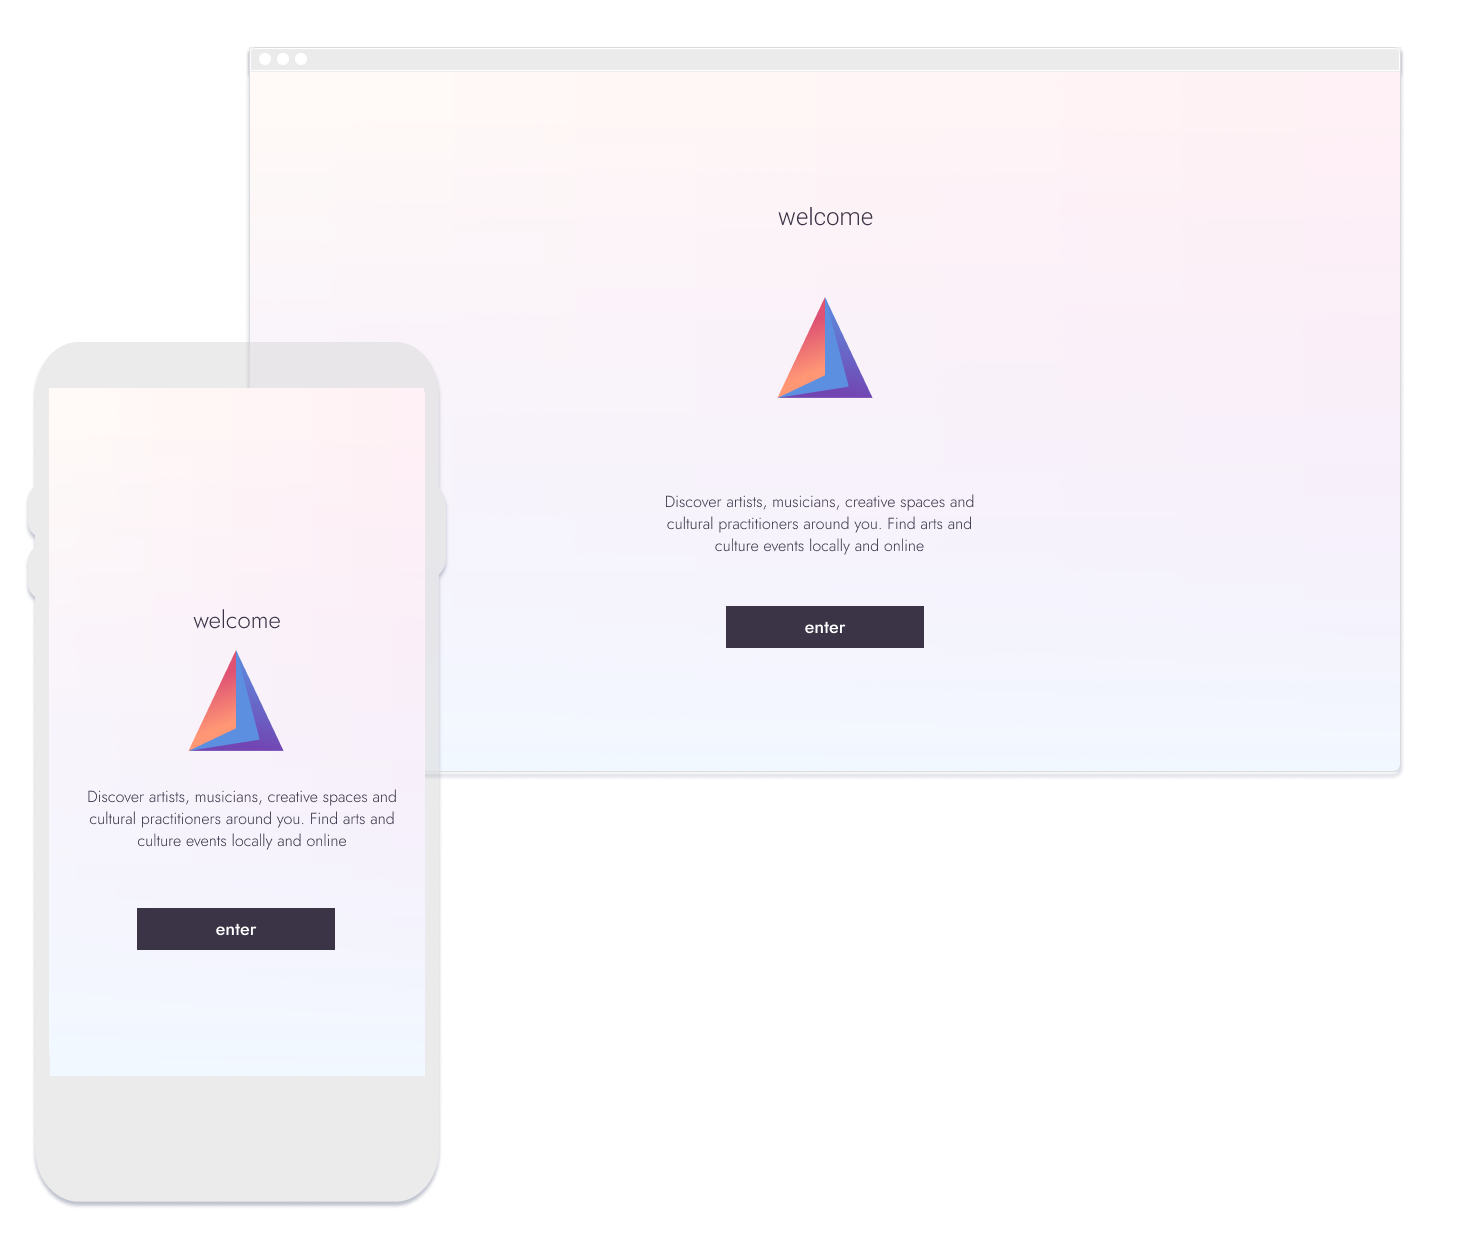
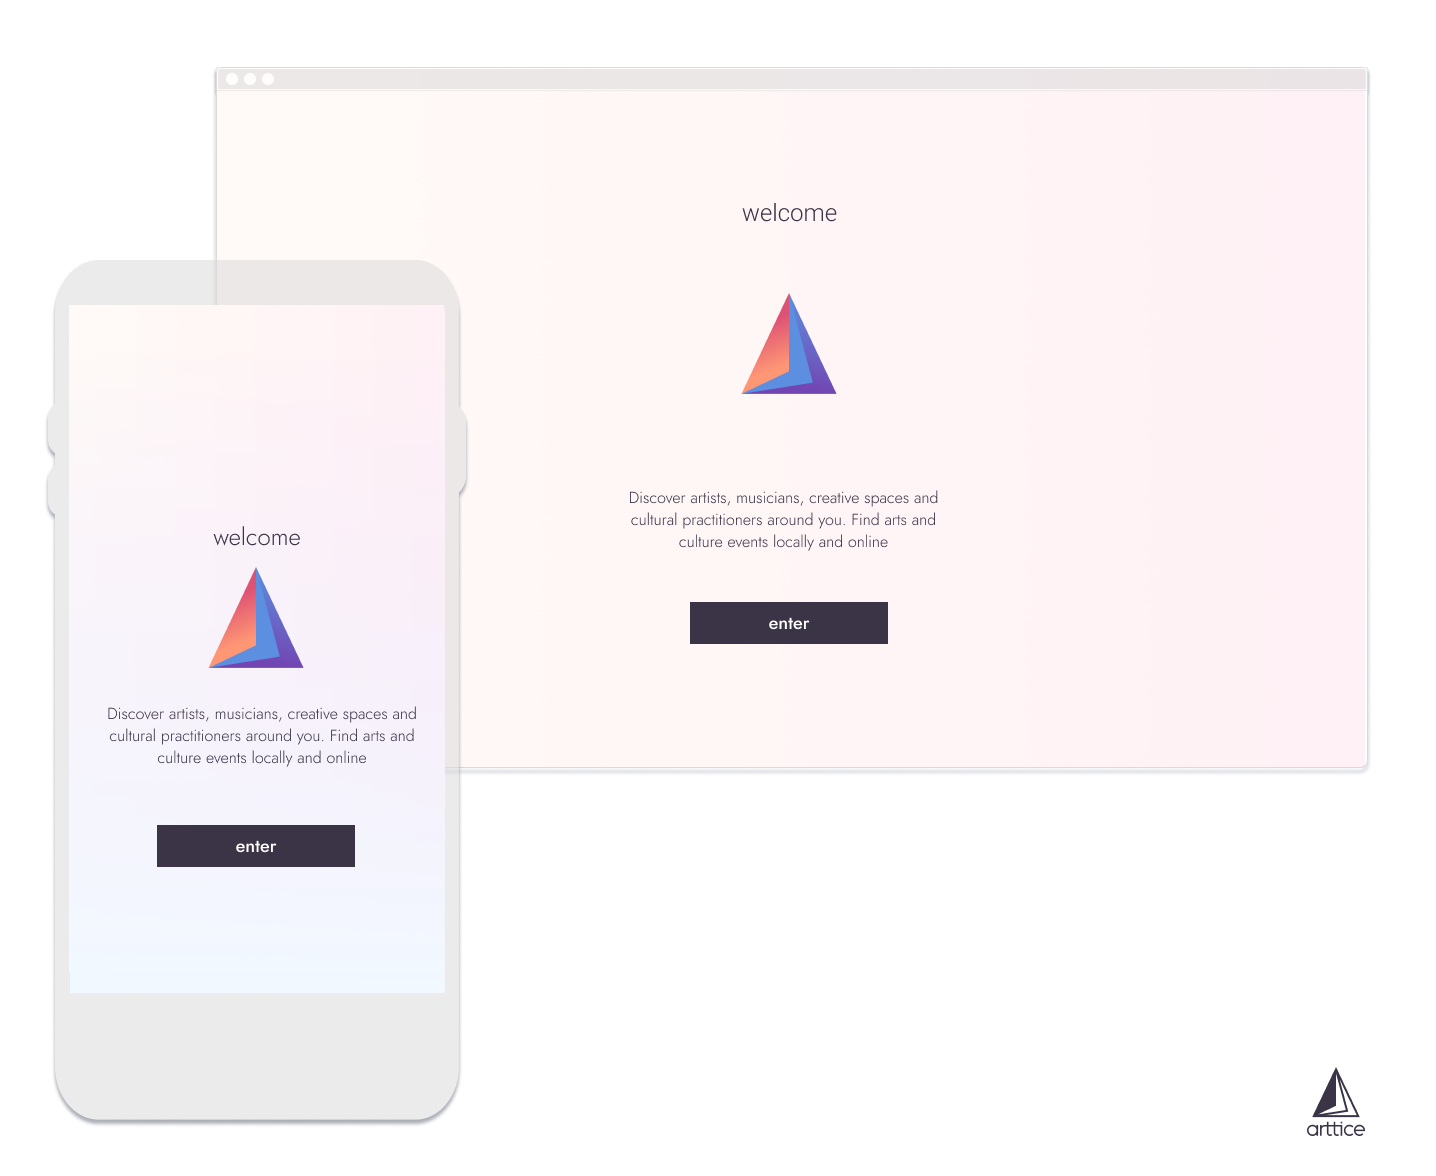
update

diff --git a/arttice.html b/arttice.html
@@ -184,7 +184,7 @@ font-style: normal;">   </br>
                 The need for (digital) artist-run networks</h1>
 
                 </r-cell>
-        <r-cell span=1-3 span-s=row 
+        <r-cell span=2-3 span-s=row 
         data-aos="fade-zoom-in"
               data-aos-easing="ease-in-back"
               data-aos-delay="500"
@@ -255,17 +255,26 @@ font-style: normal;">   </br>
 
              
             </h1>
-            <h2>Profiles, pages, and events</h2>
+          
               
  </r-cell>
 
- <r-cell span=2-7 span-s=row 
+ <r-cell span=3-7 span-s=row 
     data-aos="fade-zoom-in"
         data-aos-easing="ease-in-back"
         data-aos-delay="500"
         data-aos-offset="0">
+        
 </br></br></br>
         <img src="img/arttice/profile-page-dependancy.png" width="100%" style="align-items: center;" >
+ </r-cell>
+        <r-cell span=2-8 span-s=row 
+    data-aos="fade-zoom-in"
+        data-aos-easing="ease-in-back"
+        data-aos-delay="500"
+        data-aos-offset="0">
+        
+        <img src="img/arttice/information-architecture.png" width="100%" style="align-items: center;" >
 
           </r-cell>
 
@@ -274,6 +283,7 @@ font-style: normal;">   </br>
        data-aos-easing="ease-in-back"
        data-aos-delay="500"
        data-aos-offset="0">
+       <h2>Profiles, pages, and events</h2>
  <h3 style="font-weight: 400; line-height: 1.3;">
 To enable a seemless transition from platforms such as Facebook, Arttice is built around an account that can in turn manage multiple pages and publish multiple events on each of them.
  </br>
@@ -284,21 +294,31 @@ To enable a seemless transition from platforms such as Facebook, Arttice is buil
 
         </r-cell>
 
-  
-   
 
-  
 
-        
+
 
           
    
     
+  <r-cell span=1-8 span-s=row 
+  data-aos="fade-zoom-in"
+        data-aos-easing="ease-in-back"
+        data-aos-delay="500"
+        data-aos-offset="0">
+   
+    <h1 class="large" >
+    </br>  </br>  </br>  
+Interface design
+
+ 
+</h1>
+  </r-cell>
 
 
   
 
-                      <r-cell span=1-4 span-s=row > 
+                      <r-cell span=2-3 span-s=row > 
                      
                         </br> </br> 
                         
@@ -307,9 +327,14 @@ To enable a seemless transition from platforms such as Facebook, Arttice is buil
                      <h3> <br>
                     My page UI
                     <br><br></h3>
+                    <h4 style="font-weight: 400; line-height: 1.3;">
+  
+                    The my page UI is meant to allow artists and cultural producers to easily manage multiple pages and events at the same time.
+                      
+                  </h4>
                         </r-cell>
 
-                         <r-cell span=1-8 span-s=row 
+                         <r-cell span=2-8 span-s=row 
                          data-aos="fade-zoom-in"
                              data-aos-easing="ease-in-back"
                              data-aos-delay="100"
@@ -319,28 +344,22 @@ To enable a seemless transition from platforms such as Facebook, Arttice is buil
                  
                            </r-cell>
 
-    <r-cell span=1-8 span-s=row
+    <r-cell span=2-3  span-s=row
     data-aos="fade-zoom-in"
         data-aos-easing="ease-in-back"
         data-aos-delay="500"
         data-aos-offset="0" >
         <h2>
        A map-centered search interface
-          <br></h2></r-cell>
-
-          <r-cell span=1-3 span-s=row
-          data-aos="fade-zoom-in"
-              data-aos-easing="ease-in-back"
-              data-aos-delay="500"
-              data-aos-offset="0" >
-              <h1 class="large" >
-        <h4 style="font-weight: 400; line-height: 1.3;">
-      Both site visitors and registered users can discover pages or events by either searching by keyword, filtering by different categories, or through navigating the map UI.
-          <br> <br></h4>
+          <br></h2>
+          <h4 style="font-weight: 400; line-height: 1.3;">
+            Both site visitors and registered users can discover pages or events by either searching by keyword, filtering by different categories, or through navigating the map UI.
+                <br> <br></h4>
         </r-cell>
 
+    
 
-        <r-cell span=1-9 span-s=row 
+        <r-cell span=2-9 span-s=row 
         data-aos="fade-zoom-in"
             data-aos-easing="ease-in-back"
             data-aos-delay="100"
@@ -354,7 +373,7 @@ To enable a seemless transition from platforms such as Facebook, Arttice is buil
     
 
     
-          <r-cell span=1-2 span-s=row
+          <r-cell span=2-3 span-s=row
           data-aos="fade-zoom-in"
               data-aos-easing="ease-in-back"
               data-aos-delay="500"
@@ -366,7 +385,6 @@ To enable a seemless transition from platforms such as Facebook, Arttice is buil
           
                 <h4 style="font-weight: 400; line-height: 1.3;">
                  Registration is invite-only. Both moderators and existing users can generate invites.
-                </br></br>
                  Once a person registers, they are encouraged to create a page from their profile
 
                  
@@ -374,7 +392,7 @@ To enable a seemless transition from platforms such as Facebook, Arttice is buil
               </r-cell>
 
     
-          <r-cell span=1-8 span-s=row 
+          <r-cell span=2-8 span-s=row 
           data-aos="fade-zoom-in"
               data-aos-easing="ease-in-back"
               data-aos-delay="100"
@@ -385,14 +403,22 @@ To enable a seemless transition from platforms such as Facebook, Arttice is buil
             </r-cell>
       
 
+            <r-cell span=2-3 span-s=row 
+            data-aos="fade-zoom-in"
+                data-aos-easing="ease-in-back"
+                data-aos-delay="100"
+                data-aos-offset="0">
+                <h4 style="font-weight: 400;">The registration 
+                  flow on larger devices is shorter, as each screen includes two steps instead of one.
+                </br></br>
+                </h4>
+                </r-cell>
+
             <r-cell span=1-8 span-s=row 
             data-aos="fade-zoom-in"
                 data-aos-easing="ease-in-back"
                 data-aos-delay="100"
                 data-aos-offset="0">
-                <h3 >Desktop version
-                </br></br>
-                </h3>
                 <img src="img/arttice/create-a-page-desktop.png">
               </br></br></br>
   

diff --git a/lips.html b/lips.html
@@ -203,6 +203,14 @@ data-aos="fade-zoom-in"
               data-aos-offset="0">
               <h1 class="large" > </br></br>
                 What problem is Lips solving?</h1>
+                
+          </r-cell>
+
+          <r-cell span=2-3 span-s=row 
+          data-aos="fade-zoom-in"
+                data-aos-easing="ease-in-back"
+                data-aos-delay="500"
+                data-aos-offset="0">
               <h3  style="font-weight: 400; line-height: 1.4;" class="text-float-bottom">
               </br>
             </br>
@@ -217,7 +225,7 @@ data-aos="fade-zoom-in"
 
           </r-cell>
 
-          <r-cell span=4-8 span-s=row 
+          <r-cell span=4-7 span-s=row 
           data-aos="fade-zoom-in"
                 data-aos-easing="ease-in-back"
                 data-aos-delay="500"
@@ -427,48 +435,6 @@ Designed and led 3 remote co-design sessions with key stakeholder groups: artist
 
         
 
-          <r-cell span=1-2 span-s=row 
-          data-aos="fade-zoom-in"
-              data-aos-easing="ease-in-back"
-              data-aos-delay="500"
-        
-              data-aos-offset="0">
-              
-              <h2 >
-                </br></br></br></br>
-                         Just browse
-                         <hr>
-                          </br></h2>
-<img src="img/lips/non-registered.jpg">
-              </r-cell>
-              <r-cell span=3-5 span-s=row 
-              data-aos="fade-zoom-in"
-                  data-aos-easing="ease-in-back"
-                  data-aos-delay="500"
-                  data-aos-offset="0">
-                  <h2 >
-                   </br></br></br></br>
-                            Registered
-                            <hr>
-                              </br></h2>
-   
-    <img src="img/lips/non-approved.jpg">
-                  </r-cell>
-
-                  <r-cell span=6-8 span-s=row 
-                  data-aos="fade-zoom-in"
-                      data-aos-easing="ease-in-back"
-                      data-aos-delay="500"
-                      data-aos-offset="0">
-                      <h2 >
-                       </br></br></br></br>
-                                Approved
-                                <hr>
-                                  </br></h2>
-      
-        <img src="img/lips/approved.jpg">
-                      </r-cell>
-
   
 
                       <r-cell span=7 span-s=row > 
@@ -491,14 +457,36 @@ Designed and led 3 remote co-design sessions with key stakeholder groups: artist
           <br> <br></h4>
         </r-cell>
 
-
-        <r-cell span=3-8 span-s=row 
+        <r-cell span=3-7 span-s=row 
         data-aos="fade-zoom-in"
             data-aos-easing="ease-in-back"
             data-aos-delay="100"
             data-aos-offset="0">
-            <img src="img/lips/just-browse.png">
-      </br></br></br>
+            
+            <img src="img/lips/non-registered.jpg">
+         
+          </br></br></br>
+
+          </r-cell>
+
+          <r-cell span=1-2 span-s=row
+          data-aos="fade-zoom-in"
+              data-aos-easing="ease-in-back"
+              data-aos-delay="500"
+              data-aos-offset="0" >
+          
+          
+              <h4 style="font-weight: 400; line-height: 1.3;">
+                View recent public posts sorted by hashtags.
+                <br> <br></h4>
+              </r-cell>
+          <r-cell span=3-8 span-s=row 
+          data-aos="fade-zoom-in"
+              data-aos-easing="ease-in-back"
+              data-aos-delay="100"
+              data-aos-offset="0">
+              <img src="img/lips/just-browse.png">
+        </br></br></br>
 
           </r-cell>
 

diff --git a/library-rituals.html b/library-rituals.html
@@ -545,18 +545,7 @@ ing for books, actively making time for this activity of browsing.
                               
                               </h3></r-cell>
 
-                              <r-cell span=1-9 span-s=row 
-                              data-aos="fade-zoom-in"
-                                    data-aos-easing="ease-in-back"
-                                    data-aos-delay="500"
-                                    data-aos-offset="0" >
-                                   
-                                    <img  
-                                     src="img/library/personas.png" 
-                                     width="100%" style="align-items: center;">
-                                 
-                                  </r-cell>
-                    
+                       
 
                         <r-cell span=1-8 span-s=row 
                         data-aos="fade-zoom-in"

diff --git a/about.html b/about.html
@@ -106,7 +106,7 @@ THE SOFTWARE.
           I've also written about and contributed to several contemporary art projects internationally and online.
           <br>
           <br>  
-          resume available on request
+        <span style="color: grey;"> CV available on request</span>
           <br>
           <br>  
         </hr>

diff --git a/index.html b/index.html
@@ -158,7 +158,7 @@ data-aos-offset="0"
 class="desktop-padding"
 >
  
-<img src="img/arttice/cover2.png"  >
+<img src="img/arttice/cover.jpg"  >
 
 
 
